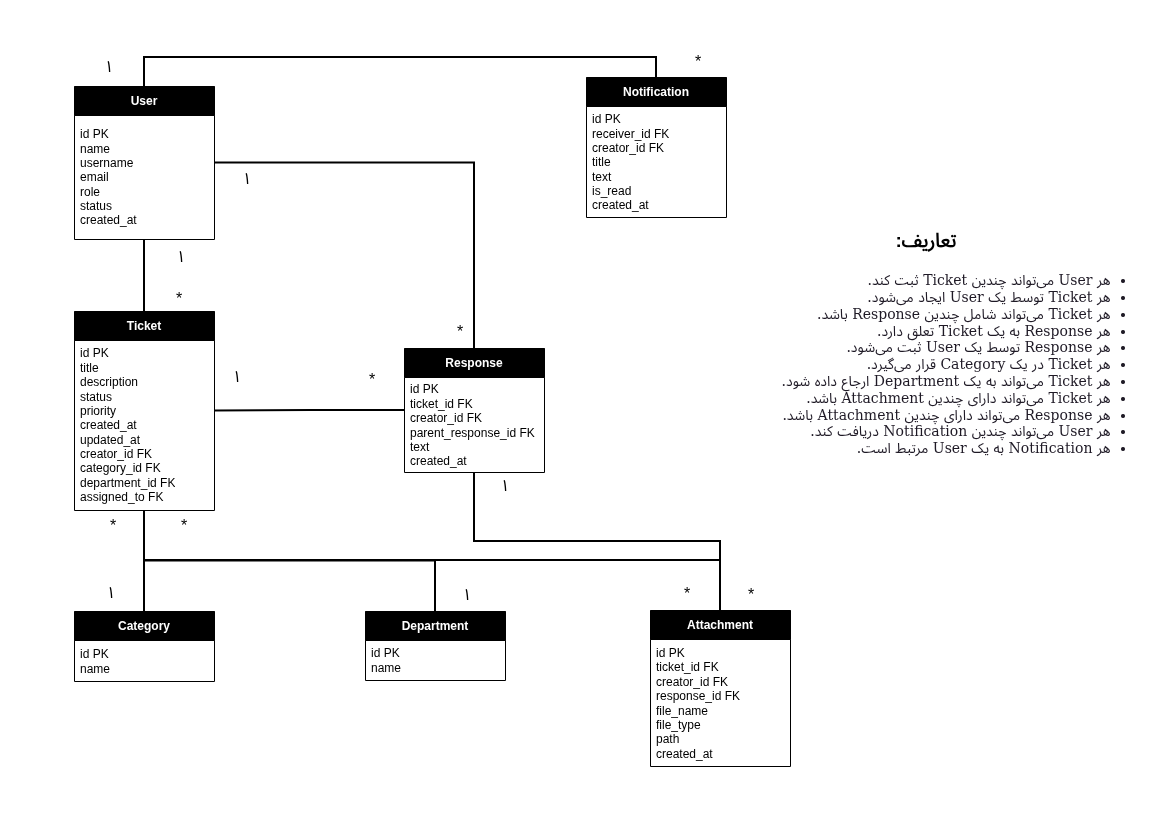
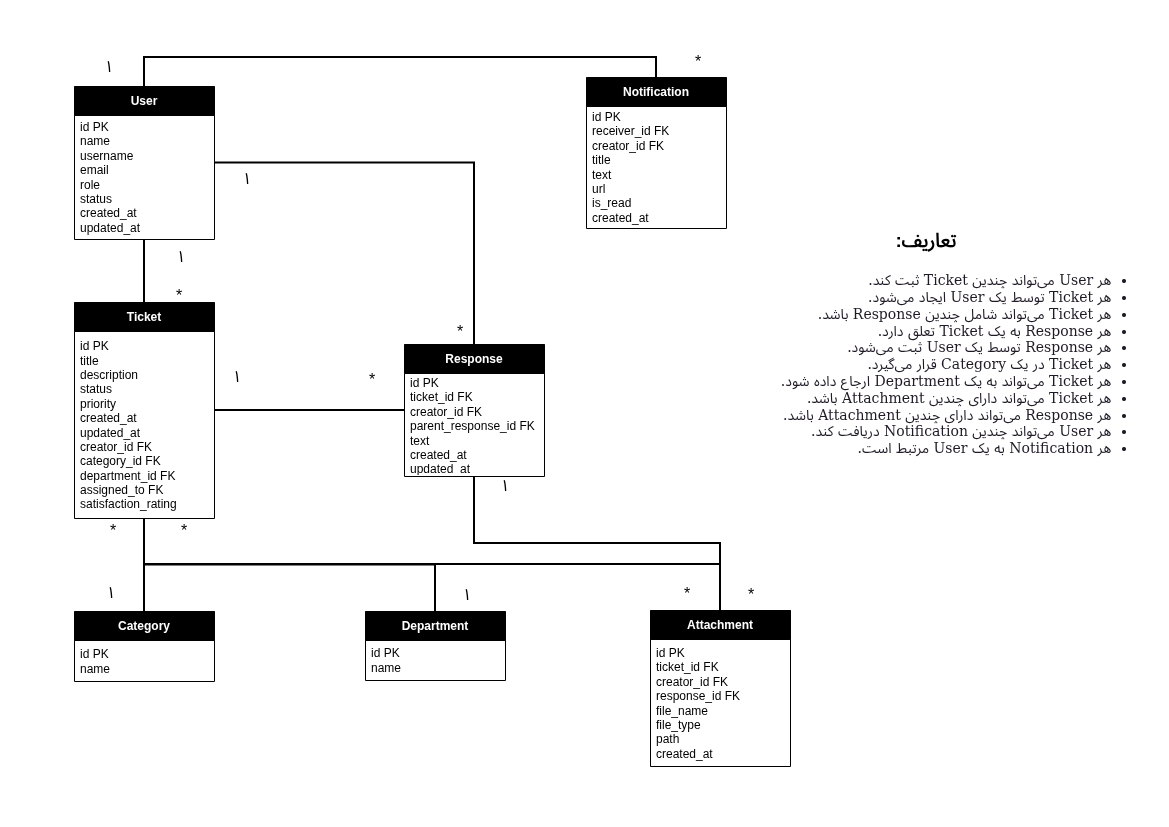
docs: document new database fields in ERD diagram and database design documentation

diff --git a/docs/03-design/03-database-design.md b/docs/03-design/03-database-design.md
@@ -18,6 +18,7 @@ email
 role
 status
 created_at
+updated_at
 ```
 
 ### توضیحات
@@ -29,6 +30,7 @@ created_at
 * `role` : نقش کاربر در سامانه
 * `status` : وضعیت حساب کاربری
 * `created_at` : زمان ایجاد حساب
+* `updated_at` : آخرین زمان ویرایش حساب
 
 ## جدول Ticket
 
@@ -48,6 +50,7 @@ creator_id
 category_id
 department_id
 assigned_to
+satisfaction_rating
 ```
 
 ### توضیحات
@@ -58,6 +61,7 @@ assigned_to
 * `status` : وضعیت فعلی تیکت
 * `priority` : سطح اولویت تیکت
 * `assigned_to`: شناسه کارشناس مربوطه
+* `satisfaction_rating`: امتیاز کاربر پس از پاسخ تیکت
 
 ## جدول Response
 
@@ -72,6 +76,7 @@ creator_id
 parent_response_id
 text
 created_at
+updated_at
 ```
 
 ### توضیحات
@@ -141,6 +146,7 @@ receiver_id
 creator_id
 title
 text
+url
 is_read
 created_at
 ```
@@ -151,4 +157,5 @@ created_at
 * `creator_id` : ایجادکننده اعلان
 * `title` : عنوان اعلان
 * `text` : متن اعلان
+* `url` : لینک ارجاع
 * `is_read` : وضعیت مشاهده اعلان
